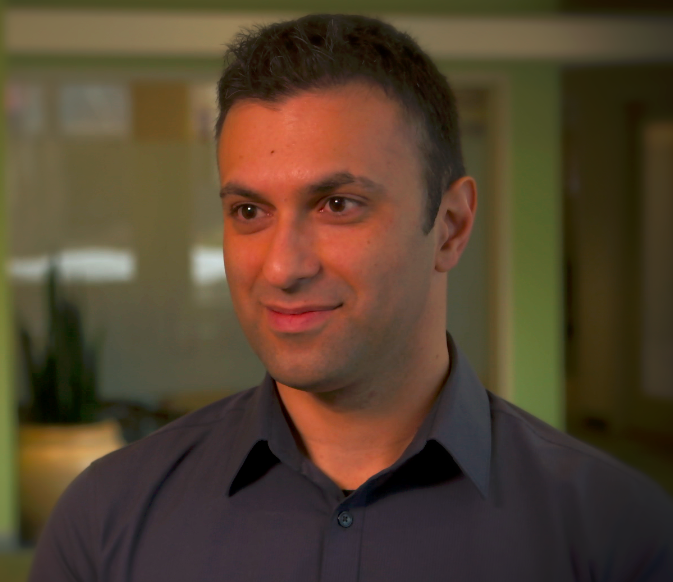
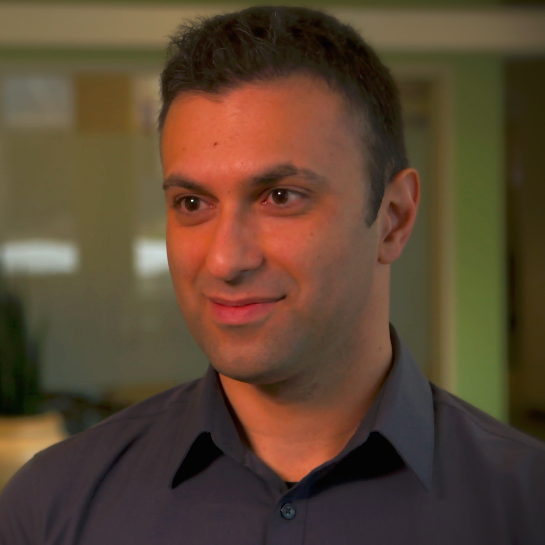
Add Evan's photo
Also crops Soheil's

diff --git a/frontmatter/team.md b/frontmatter/team.md
@@ -22,7 +22,7 @@ I'm an engineer, developer, author, creator, husband and father. I enjoy bicycli
 
 ### Evan Dekhayser
 
-TODO: PHOTO
+![width=30%](images/evan_dekhayser.jpg)
 
 Evan Dekhayser is a high school student, as well as an iOS developer. He first learned Python in 2012, and has since built up his knowledge of Objective C and Swift. He enjoys playing and watching baseball, and is always looking for intriguing topics to learn and potentially write about.
 
